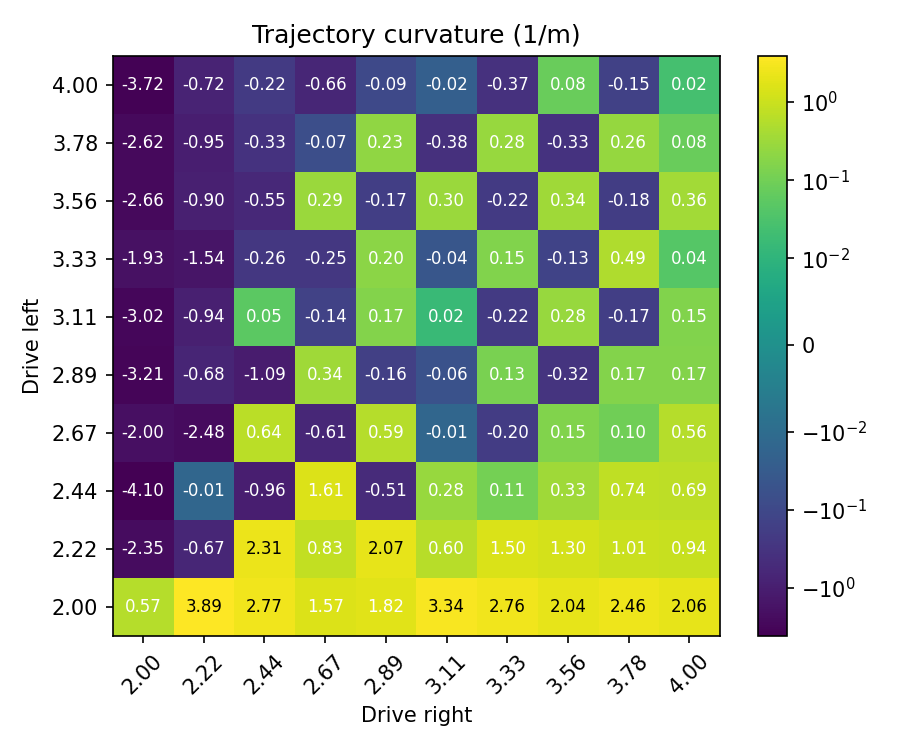
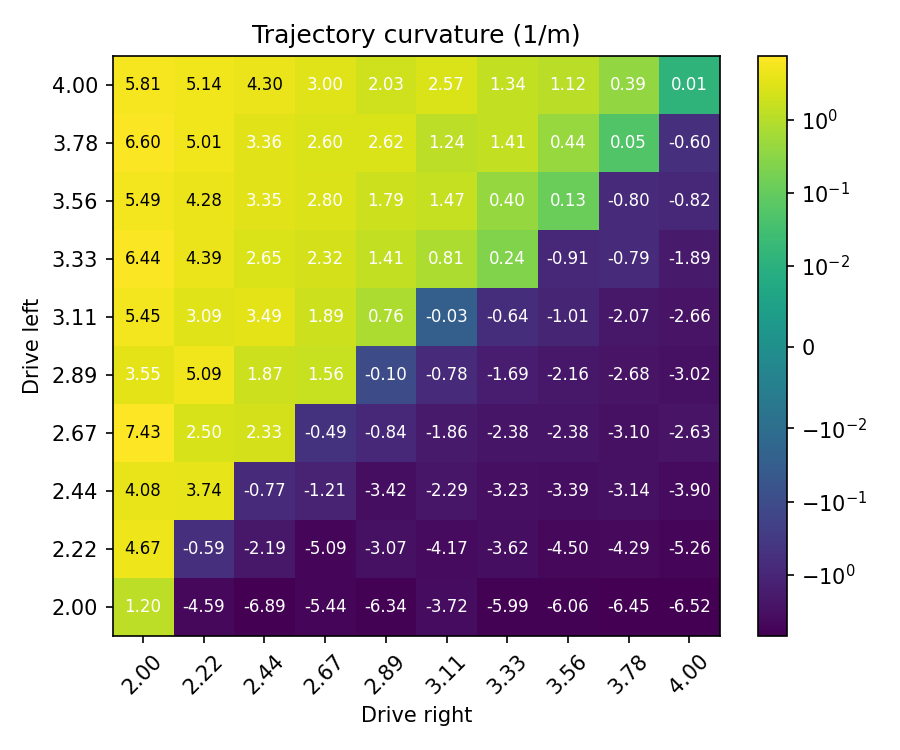
Exo 2_2 Curvature Added

diff --git a/Project1/Python/exercise2_2.py b/Project1/Python/exercise2_2.py
@@ -10,6 +10,7 @@ from matplotlib import colors
 from farms_core import pylog
 
 from cmc_controllers.metrics import (
+    LINKS_MASSES,
     compute_mechanical_energy_and_cot,
     compute_mechanical_speed,
     compute_trajectory_curvature,
@@ -101,10 +102,10 @@ def get_metrics_diff_drive(drive_left, drive_right, base_path):
         sensor_data_links = f['FARMSLISTanimats']['0']['sensors']['links']['array'][:]
 
     links_positions = sensor_data_links[:, :, 7:10]
-    trajectory = np.mean(links_positions[:, :, :2], axis=1)
+    com_pos = np.average(links_positions, axis=1, weights=LINKS_MASSES)
     timestep = float(sim_times[1] - sim_times[0])
 
-    return compute_trajectory_curvature(trajectory=trajectory, timestep=timestep)
+    return compute_trajectory_curvature(trajectory=com_pos, timestep=timestep)
 
 
 def exercise2_2(**kwargs):
